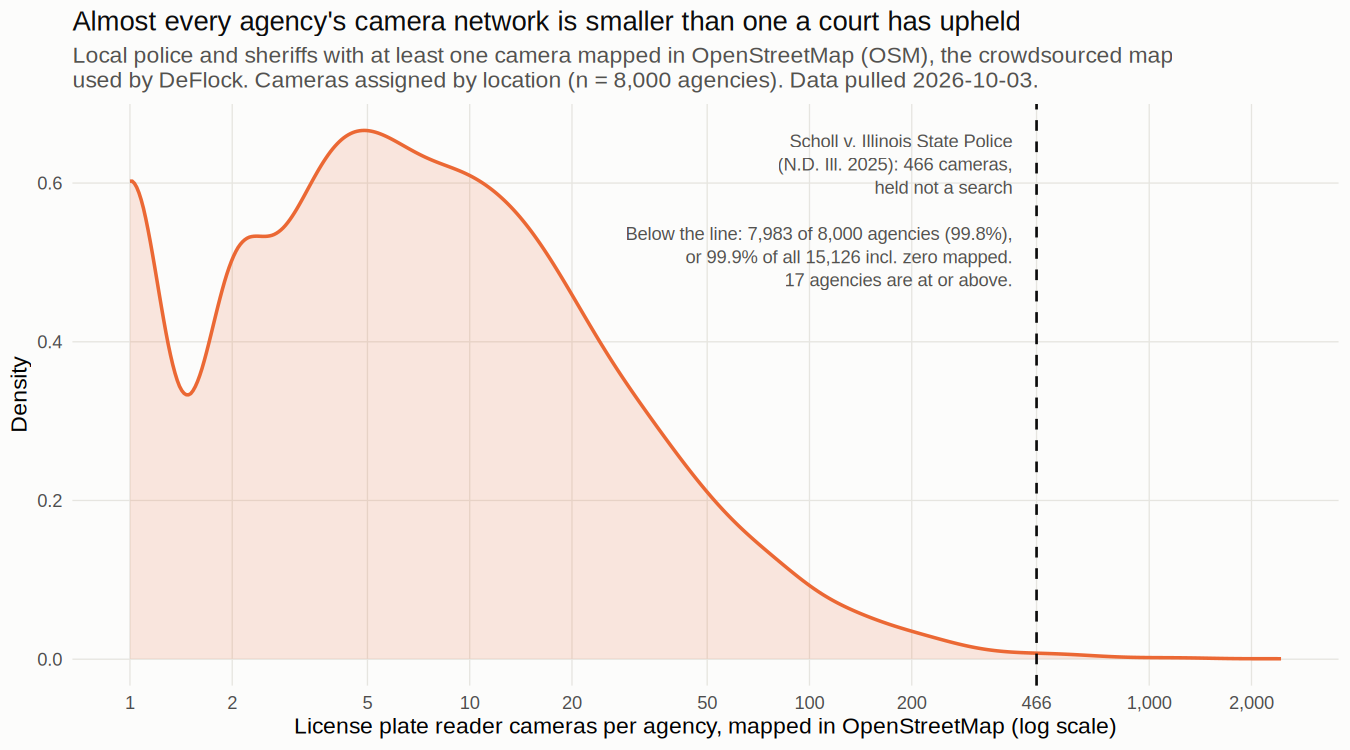
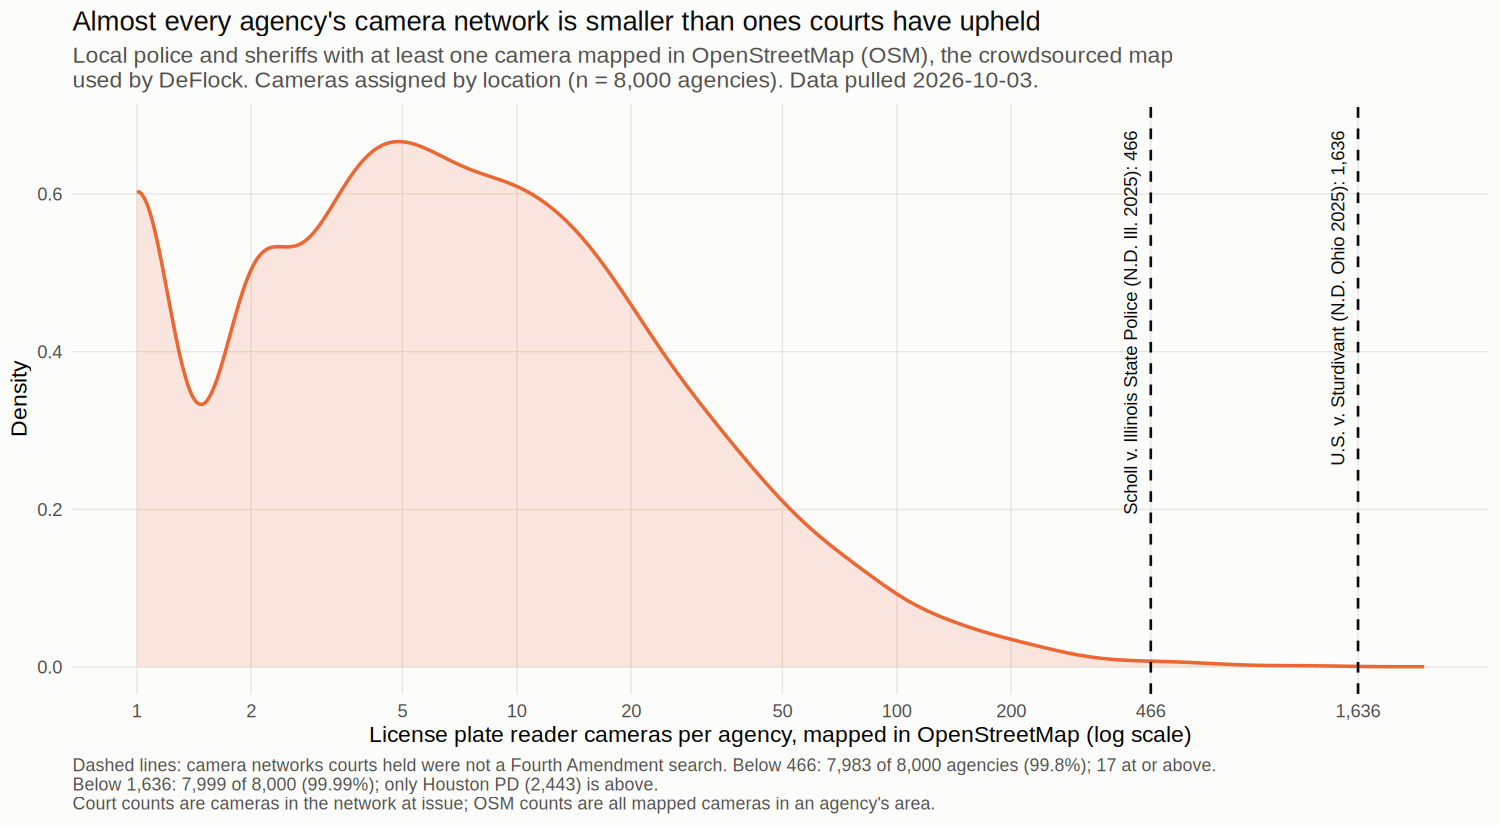
Court case review; plot lines at Scholl (466) and Sturdivant (1,636)
Claude-Session: https://claude.ai/code/session_012MUT65VuPnYomMW5XEe91P

diff --git a/output/court_cases.md b/output/court_cases.md
@@ -1,0 +1,196 @@
+# ALPR networks in court: is it a Fourth Amendment "search"?
+
+Research as of 2026-10-03. Quotes come from the opinions themselves unless marked **[secondary]**. "Not verified" means I could not confirm it from a primary source. Page cites are to slip opinions.
+
+## Summary
+
+- **Almost every court has held that ALPR use is not a search.** Courts reached that result in 2 civil challenges to whole networks, 14 federal criminal rulings and 10 state appellate rulings, including the Fifth Circuit (*Porter*, 2026) and the Massachusetts SJC (*McCarthy*, 2020).
+- **Three courts have gone the other way:**
+  - *United States v. Kyle* (N.D. Okla., Oct. 1, 2026): suppressed a month of multi-state Flock and VehicleManager data.
+  - *Commonwealth v. Bell* (Norfolk Cir. Ct., 2024): suppressed evidence from Norfolk's 172-camera Flock network.
+  - *Schmidt v. Norfolk*: the motion-to-dismiss ruling (Feb. 2025) let the claim proceed. The city won at summary judgment in Jan. 2026.
+- **The rulings rest on how much data the police got, not on how big the network is.** Almost every "not a search" ruling is limited to its facts: few hits, gaps in coverage, short retention. Many courts say outright that a bigger network or more data could change the answer:
+  - *McCarthy*, *Sturdivant*, *Jackson*, *Schmidt* and *Scholl*;
+  - the Bea concurrence in *Yang*;
+  - *W.D. Okla. Brown* and *Sidor*.
+- **New Supreme Court precedent:** *Chatrie v. United States*, No. 25-112 (U.S. June 29, 2026), held 6–3 that accessing Google Location History is a search. It does not mention ALPRs. Both *Riley* (no search) and *Kyle* (search) rely on it.
+- **Pending appeals:**
+  - *Scholl* (7th Cir. No. 25-1847, argued Sept. 29, 2026);
+  - *Schmidt* (4th Cir. No. 26-1227, fully briefed, not yet argued);
+  - *Simonson* petition (Wash. Sup. Ct. No. 105237-5);
+  - *Tan v. San Jose* (N.D. Cal., 474 Flock cameras; motion to dismiss heard Oct. 1, 2026; no ruling verified);
+  - *U.S. v. Slaybaugh* (11th Cir. No. 25-14394, argued July 2026) **[secondary]**.
+
+## Largest networks in "not a search" rulings
+
+| Case | Court, date | Network described in the opinion | What the police retrieved |
+|---|---|---|---|
+| **U.S. v. Sturdivant**, No. 1:22-cr-615 | N.D. Ohio, June 9, 2025 (Calabrese, J.) | "1,636 Flock cameras across Cuyahoga County, 667 of which are associated with law enforcement agencies" (p. 5), plus ~1,119 ELSAG cameras (p. 7). In total, "approximately 1,800 to 3,000 cameras" (p. 26). | "at least 26 data points over the course of six weeks" |
+| **Scholl & Bednarz v. Illinois State Police**, No. 1:24-cv-04435 | N.D. Ill., Mar. 31, 2025 (Pacold, J.) | "344 cameras in Cook County, 78 in St. Clair County, and 44 across 17 other counties" = **466** (p. 2). Expressway readers feeding Vigilant LEARN. | None: a civil challenge to the collection itself |
+| U.S. v. Bowers, No. 2:18-cr-292 | W.D. Pa., Oct. 11, 2021 (Ambrose, J.) | Allegheny County DA, "350+ ALPRs" | 106 reads at 33 locations over 4.5 months |
+| U.S. v. Jackson, No. 24-cr-10010 | D. Kan., May 29, 2025 (Broomes, J.) | Wichita Flock, 160 cameras (now 190) | ~9 hits in 4 hours |
+| U.S. v. Martin, 753 F. Supp. 3d 454 | E.D. Va., Oct. 11, 2024 (Payne, J.) | Richmond (66) + Chesterfield (52) Flock **[from quotes in other opinions; full text not retrieved]** | 3 photos in 30 days |
+| Schmidt v. City of Norfolk, No. 2:24-cv-621 | E.D. Va., Jan. 27, 2026 (Davis, J.) | **176** Flock cameras in 75 clusters, plus access to 43 third-party Flock cameras (p. 9) | None queried; plaintiffs captured ~475 and ~325 times in 4.5 months |
+| Commonwealth v. Church; Robinson v. Commonwealth | Va. Ct. App., Oct. 14, 2025; Apr. 7, 2026 (published) | Norfolk Flock, 172 cameras | 3 images; 1 image |
+| U.S. v. Riley, No. 2:25-cr-380 | C.D. Cal., Sept. 10, 2026 (Phillips, J.) | Culver City Flock, 52 cameras at 28 intersections; Carson Motorola, 85 fixed cameras + 4 trailers | 4 photos from each system |
+| U.S. v. Cooper, No. 23-131 | E.D. La., Jan. 6, 2025 | New Orleans, ~60 cameras | — |
+| State v. Faile, 2026-UP-323 | S.C. Ct. App., July 1, 2026 | Rock Hill Flock, 24 cameras | 2 photos |
+| U.S. v. Porter, No. 25-60163 | 5th Cir., Mar. 17, 2026 | Gautier, MS, "no more than ten" cameras | Real-time hit plus earlier hits |
+| Commonwealth v. McCarthy, 484 Mass. 493 | Mass. SJC, Apr. 16, 2020 | 4 cameras on 2 bridges | ~2.5 months of crossings |
+
+The plot `density_cameras_per_agency_court_cutoff.png` draws a line at 1,636 (Sturdivant) and at 466 (Scholl). The two numbers measure different things:
+- **Sturdivant** is a criminal suppression ruling about *queries* of a county-wide, multi-owner network. Only 667 of its cameras are tied to law enforcement.
+- **Scholl** is a civil challenge to one agency's *collection*, on a motion to dismiss.
+
+---
+
+## 1. Civil challenges to whole networks
+
+### Scholl & Bednarz v. Illinois State Police, No. 1:24-cv-04435 (N.D. Ill. Mar. 31, 2025), 776 F. Supp. 3d 701; appeal 7th Cir. No. 25-1847
+- **Posture:** The court granted the 12(b) motion to dismiss and denied the preliminary injunction. Final judgment May 2, 2025.
+- **Appeal:** Argued **Sept. 29, 2026** before Brennan, C.J., St. Eve and Taibleson, JJ. The United States filed an amicus brief supporting ISP. No decision yet. **[secondary]** Reports say the panel seemed skeptical of the plaintiffs.
+- **Network:**
+  - 466 ISP expressway cameras feeding Vigilant LEARN. The vendor is named in the appellants' brief, not the opinion.
+  - "Last month, ALPRs in Illinois recorded 200,161,762 detections and 5,747,483 hits" (p. 3).
+  - Retention: up to 120 days by statute; "generally" 90 days in LEARN.
+- **Standing:** Plaintiffs had standing to challenge collection but **not** LEARN queries, which were not imminent (pp. 6–7).
+- **Holding:** "when an ALPR scans a license plate, it does not conduct a 'search'" (p. 10).
+- **Reasoning:**
+  - The system is "more akin to the beeper in Knotts … or to the stationary pole cameras in Tuggle" (p. 17).
+  - The court follows the 7th Circuit's skepticism of the mosaic theory (p. 12).
+  - It concedes some *Carpenter* factors are present: the data is retrospective, and it "runs against everyone."
+- **Reservation:** "The court does not decide whether a more extensive network of ALPRs might infringe a reasonable expectation of privacy" (p. 18).
+
+### Schmidt & Arrington v. City of Norfolk, No. 2:24-cv-00621 (E.D. Va.); appeal 4th Cir. No. 26-1227
+- **MTD ruling, Feb. 5, 2025: denied.**
+  - The complaint alleged 172 cameras and "the whole of tens of thousands of individual's movements," which the court found "notably similar to those in Carpenter" (p. 19).
+  - The court cautioned that this "is not a preview of the likely resolution" (p. 19 n.9).
+- **Summary judgment, Jan. 27, 2026: for the city.**
+  - Network: 176 cameras in 75 clusters; 30-day retention, now 21 days under Va. Code § 2.2-5517. "75 Flock camera clusters therefore monitor a very small percentage of Norfolk's public roadways" (pp. 9–10).
+  - Holding: The evidence is "insufficient to demonstrate that Defendants' current ALPR system captures enough images … to reconstruct the whole of their movements" (p. 35).
+  - On *Carpenter*: "the average number of captures in Carpenter were 30 to 50 times greater" (p. 37).
+  - On *Beautiful Struggle*: "many thousands more blind spots than it has unblinking eyes" (p. 38).
+  - Mosaic theory rejected for "2 or 3 … scattered ALPR data points" (p. 49).
+- **Reservation:** "ALPR surveillance could become too intrusive … at some point. But when? … at least in Norfolk, Virginia, the answer is: not today" (p. 6). See also p. 42 n.17: cameras at "the next street corner, and the next" might change the result.
+- **Appeal:** Fully briefed. Amici for appellants include EPIC and Cato. No argument date verified.
+- **Quote caveat:** The quotes come from OCR of a scanned PDF. Check them against the original.
+
+### Neal v. Fairfax County Police Dep't (Va. 2018; Va. 2020): statutory, not Fourth Amendment
+- **2018:** Passive ALPR collection (364-day retention) can be "personal information" under the Virginia Data Act. Remanded.
+- **2020:** Reversed the injunction, because the ALPR database itself does not identify individuals. Final.
+
+### Pending civil suits (no merits ruling verified)
+- **Tan v. City of San Jose**, No. 5:26-cv-03181-BLF (N.D. Cal.), Institute for Justice: 474 Flock cameras, 30-day retention. **If the court dismisses on the merits, this would be the largest single-agency network held constitutional.**
+- **SIREN v. San Jose** (Cal. Super. Ct.), **[secondary]** Cal. Const.
+- **Grimmett v. Wichita** (Kan.), **[secondary]**.
+- **ACLU/PANA v. San Diego** (filed Sept. 30, 2026), **[secondary]**.
+- **Suits against Flock as vendor** (N.D. Cal., N.D. Ga.), **[secondary]**.
+
+## 2. Federal criminal rulings
+
+### Search found
+**U.S. v. Kyle**, No. 4:26-cr-00189-SEH (N.D. Okla. Oct. 1, 2026) (Hill, J.), Dkt. 62.
+- **Facts:**
+  - A Tulsa County deputy queried Flock and VehicleManager.
+  - He got "more than 50 individual records of Kyle's whereabouts across the country for an entire month" (p. 37).
+  - The opinion gives no camera count.
+- **Holding:**
+  - "This is a type of indiscriminate mass surveillance … It is a tool that collects information about all vehicles that pass by any network-connected camera at all times" (p. 34).
+  - It was a search without a warrant or probable cause.
+- **Reasoning:** Relies on *Carpenter*, *Chatrie* and *Kyllo*. Says "lower courts need to reexamine the result in Knotts" (p. 31).
+- **Caveat:** Suppression also rests on an independent ground, an unlawfully extended stop. **[secondary]** Flock told the press it expects an appeal.
+
+### Not a search
+- **U.S. v. Porter**, No. 25-60163 (5th Cir. Mar. 17, 2026) (Smith, J.), published. **The only circuit merits holding.**
+  - Network: ~10 cameras.
+  - "The LPR system is not capable of tracking the 'whole of [an individual's] physical movements'" (p. 7). The system is "more analogous to the beeper signals in Knotts."
+- **U.S. v. Riley**, No. 2:25-cr-380-VAP (C.D. Cal. Sept. 10, 2026).
+  - Networks: Culver City Flock, 52 cameras / 30 days; Carson Motorola, 85 cameras.
+  - Retrieved: 4 photos from each system.
+  - "The record here does not reveal a privacy threat analogous to … Carpenter and Chatrie" (p. 7).
+- **U.S. v. Sturdivant** (N.D. Ohio June 9, 2025): see the table above.
+  - The court called it a "close and difficult" question.
+  - "That day might well be on the horizon … the record here shows a qualitative leap forward, placing the evidence generated from such technology at risk in the absence of a warrant" (pp. 27–28).
+- **U.S. v. Jackson** (D. Kan. May 29, 2025):
+  - Network: Wichita, 160–190 Flock cameras, "roughly one camera per 2.6 lane miles."
+  - Reservation: wider deployment "could eventually rise to the level of systemic and continuous tracking" (p. 20).
+- **U.S. v. Martin** (E.D. Va. 2024): Richmond-area Flock; one query returned the 2,500-result maximum; 3 photos of the defendant. Full text not retrieved.
+- **U.S. v. Bowers** (W.D. Pa. 2021): 350+ cameras; 106 reads over 4.5 months. Good faith in the alternative.
+- **U.S. v. Yang**, 958 F.3d 851 (9th Cir. 2020):
+  - The majority decided on standing only (an overdue rental car).
+  - Bea, J., concurring: no search, but "if the database evolves to provide comparable location information to the records at issue in Carpenter," a warrant may be required.
+- **U.S. v. Mapson**, 96 F.4th 1323 (11th Cir. 2024): decided on good faith only.
+- **Other district rulings:**
+  - Rubin (N.D. Cal. 2021)
+  - Brown (N.D. Ill. 2021: 23 sightings over 10 weeks)
+  - Porter (N.D. Ill. 2022)
+  - Graham (D.N.J. 2022)
+  - Toombs (N.D. Ala. 2023)
+  - Jiles (D. Neb. 2024)
+  - Cooper (E.D. La. 2025)
+  - Brown (W.D. Okla. 2025: 3 Choctaw Flock cameras, with the reservation "could significantly expand … to a point where the number of cameras allowed for pervasive, widespread tracking")
+  - Schoggins (E.D. Okla. 2026)
+- **Status:** Appeal status for the district cases is not verified.
+
+## 3. State courts
+
+### Search found (trial court only)
+**Commonwealth v. Bell** (Norfolk Cir. Ct. May 10, 2024) (LeCruise, J.), 113 Va. Cir. 316.
+- **Network:** 172 Flock cameras, 30-day retention.
+- **Holding:** "due to the breadth of FLOCK cameras covering the entire City of Norfolk and the storage component [it] is also akin to a GPS device and requires a warrant."
+- **Status:** Never reviewed on appeal. Effectively superseded by *Church* and *Robinson*.
+
+### Not a search
+- **Commonwealth v. McCarthy**, 484 Mass. 493 (2020), SJC-12750. **The leading statement of when ALPRs *would* be a search.**
+  - Network: 4 cameras on the Cape Cod bridges; 1-year retention.
+  - "With enough cameras in enough locations, the historic location data from an ALPR system in Massachusetts would invade a reasonable expectation of privacy and would constitute a search."
+  - "While we cannot say precisely how detailed a picture … must be revealed to invoke constitutional protections, it is not that produced by four cameras at fixed locations on the ends of two bridges."
+  - ALPRs near "the home, a place of worship" reveal more. Real-time hot-list alerts deployed widely enough could be "the vehicular equivalent of a cellular telephone 'ping.'"
+- **Robinson v. Commonwealth** (Va. Ct. App. Apr. 7, 2026, **published**, binding in Virginia):
+  - Norfolk's 172 cameras are not "near perfect surveillance."
+  - The court "decline[s] to speculate as to when—or if."
+- **Commonwealth v. Church** (Va. Ct. App. Oct. 14, 2025, unpublished): reversed the trial court's suppression. "[T]he 172 Flock cameras in use in Norfolk are not as intrusive as cell towers and aerial surveillance."
+- **Norfolk and Chesterfield trial courts:** *Robinson*, *Roberson*, *Reap* and *Adams* (2024) all denied suppression.
+- **State v. Simonson** (Wash. Ct. App. Jan. 29, 2026, amended Mar. 5, 2026):
+  - Held under art. I, § 7 of the Washington Constitution.
+  - "The amount of photographs taken … is inconsequential."
+  - A petition for review is pending.
+- **State v. Sidor**, 558 P.3d 621 (Ariz. Ct. App. 2024): "not yet a search … in a future more rife with cameras, it might well be a search" (¶41).
+- **Commonwealth v. Watkins**, 304 A.3d 364 (Pa. Super. 2023): not a search. Olson, J., dissented and would find a search.
+- **State v. Faile** (S.C. Ct. App. 2026): not a search under the Fourth Amendment **and** S.C. Const. art. I, § 10, which expressly protects privacy.
+- **Other state rulings:**
+  - Uhunmwangho v. State (Tex. App. 2020)
+  - Traft v. Commonwealth (Ky. 2018)
+  - People v. Gonzalez (Cal. Ct. App. 2019: did not decide; any error harmless)
+  - Hill v. State (Ga. Ct. App. 2013)
+- **Not verified:**
+  - Junction City v. $454,280 (Kan. Ct. App. 2023)
+  - Canosa v. Coral Gables (Fla. 3d DCA 2023)
+  - State v. Xique (Minn. Dist. Ct. 2026)
+
+## 4. Sources (primary unless marked)
+- Scholl: https://cases.justia.com/federal/district-courts/illinois/ilndce/1:2024cv04435/459495/41/0.pdf ; appellants' brief https://libertyjusticecenter.org/wp-content/uploads/Scholl-v.-ISP-Appellants-Br-and-Short-Appendix-FINAL.pdf ; 7th Cir. calendar https://media.ca7.uscourts.gov/oralArguments/oar.jsp
+- Schmidt: MTD https://epic.org/wp-content/uploads/2025/02/Schmidt-Order-Denying-MTD-.pdf ; SJ https://ij.org/wp-content/uploads/2026/01/Order-1-27-26.pdf ; EPIC amicus https://epic.org/wp-content/uploads/2026/04/EPIC-Amicus-Schmidt-v.-Norfolk.pdf
+- Neal: https://www.vacourts.gov/opinions/opnscvwp/1170247.pdf ; https://www.vacourts.gov/opinions/opnscvwp/1191127.pdf
+- Tan v. San Jose complaint: https://ij.org/wp-content/uploads/2026/04/Doc.-1-Complaint-for-Declaratory-and-Injunctive-Relief.pdf
+- Chatrie: https://www.supremecourt.gov/opinions/25pdf/25-112_0am4.pdf
+- Porter: https://www.ca5.uscourts.gov/opinions/pub/25/25-60163-CR0.pdf
+- Riley: https://drive.google.com/file/d/1PeM02GyDiOg0v8cWXfxfxgXLU1lZEio0/view
+- Kyle: https://storage.courtlistener.com/recap/gov.uscourts.oknd.76981/gov.uscourts.oknd.76981.62.0.pdf
+- Sturdivant: https://www.govinfo.gov/content/pkg/USCOURTS-ohnd-1_22-cr-00615/pdf/USCOURTS-ohnd-1_22-cr-00615-0.pdf
+- Jackson: https://ecf.ksd.uscourts.gov/cgi-bin/show_public_doc?2024cr10010-48+=
+- Yang: https://cdn.ca9.uscourts.gov/datastore/opinions/2020/05/04/18-10341.pdf
+- Mapson: https://media.ca11.uscourts.gov/opinions/pub/files/202211159.pdf
+- Bowers: https://www.govinfo.gov/content/pkg/USCOURTS-pawd-2_18-cr-00292/pdf/USCOURTS-pawd-2_18-cr-00292-19.pdf
+- Rubin: https://www.govinfo.gov/content/pkg/USCOURTS-cand-3_18-cr-00568/pdf/USCOURTS-cand-3_18-cr-00568-2.pdf
+- Brown (N.D. Ill.): https://www.govinfo.gov/content/pkg/USCOURTS-ilnd-1_19-cr-00949/pdf/USCOURTS-ilnd-1_19-cr-00949-0.pdf
+- Cooper: https://www.govinfo.gov/content/pkg/USCOURTS-laed-2_23-cr-00131/pdf/USCOURTS-laed-2_23-cr-00131-0.pdf
+- Brown (W.D. Okla.): https://www.govinfo.gov/content/pkg/USCOURTS-okwd-5_25-cr-00188/pdf/USCOURTS-okwd-5_25-cr-00188-0.pdf
+- Martin **[secondary excerpt]**: https://case-law.vlex.com/vid/united-states-v-martin-1056100094
+- McCarthy **[FindLaw copy]**: https://caselaw.findlaw.com/court/spr-jud-crt-mas-bar/2060202.html
+- Church: https://www.vacourts.gov/static/opinions/opncavwp/0737251.pdf ; Robinson: https://www.vacourts.gov/static/opinions/opncavwp/1912241.pdf
+- Bell and other Virginia trial rulings: https://vscc.virginia.gov/2024/Nov14mtg/VSCC%20ALPR%20VA%20Court%20Opinions%20FINAL%20-%20full%20opinions.pdf
+- Simonson: https://www.courts.wa.gov/opinions/pdf/407322_unp.pdf
+- Sidor: https://azcourts.gov/Portals/0/OpinionFiles/Div1/2024/1%20CA-CR%2022-0387%20STATE%20v.%20SIDOR.pdf
+- Watkins: https://cases.justia.com/pennsylvania/superior-court/2023-2209-eda-2021.pdf
+- Faile: https://www.sccourts.org/media/opinions/unpublishedopinions/HTMLFiles/COA/2026-UP-323.pdf

diff --git a/README.md b/README.md
@@ -43,7 +43,7 @@ Rscript R/05_method_b.R          # spatial join (needs LEAIC)
 Rscript R/06_combine_outputs.R   # cameras.csv, agencies.csv, summary_stats.csv, density plot
 Rscript R/07_validate.R          # comparison with N&O Flock transparency-portal counts
 Rscript R/08_summary.R           # output/summary.md
-Rscript R/09_density_court_cutoff.R   # density plot with reference line at Scholl v. ISP (466 cameras)
+Rscript R/09_density_court_cutoff.R   # density plot with lines at Scholl v. ISP (466) and U.S. v. Sturdivant (1,636); case review in output/court_cases.md
 Rscript R/operator_counts.R      # optional: cameras per operator name (no agency matching)
 ```
 
